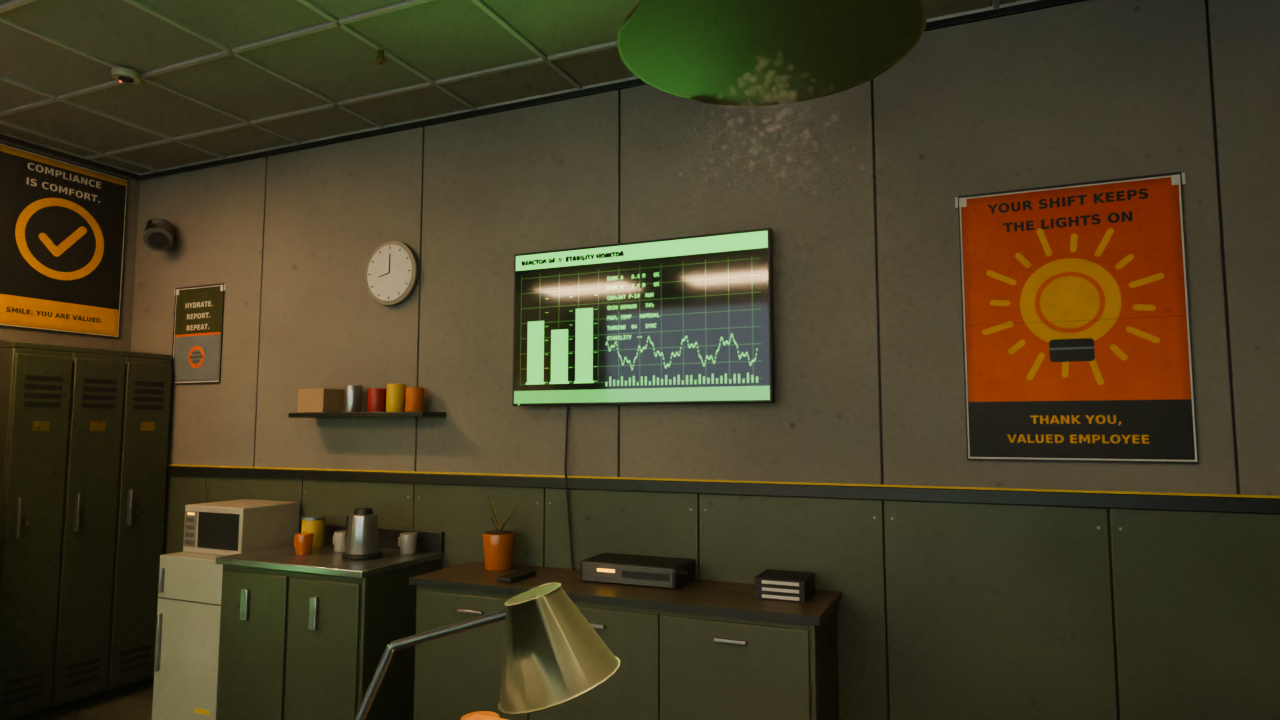
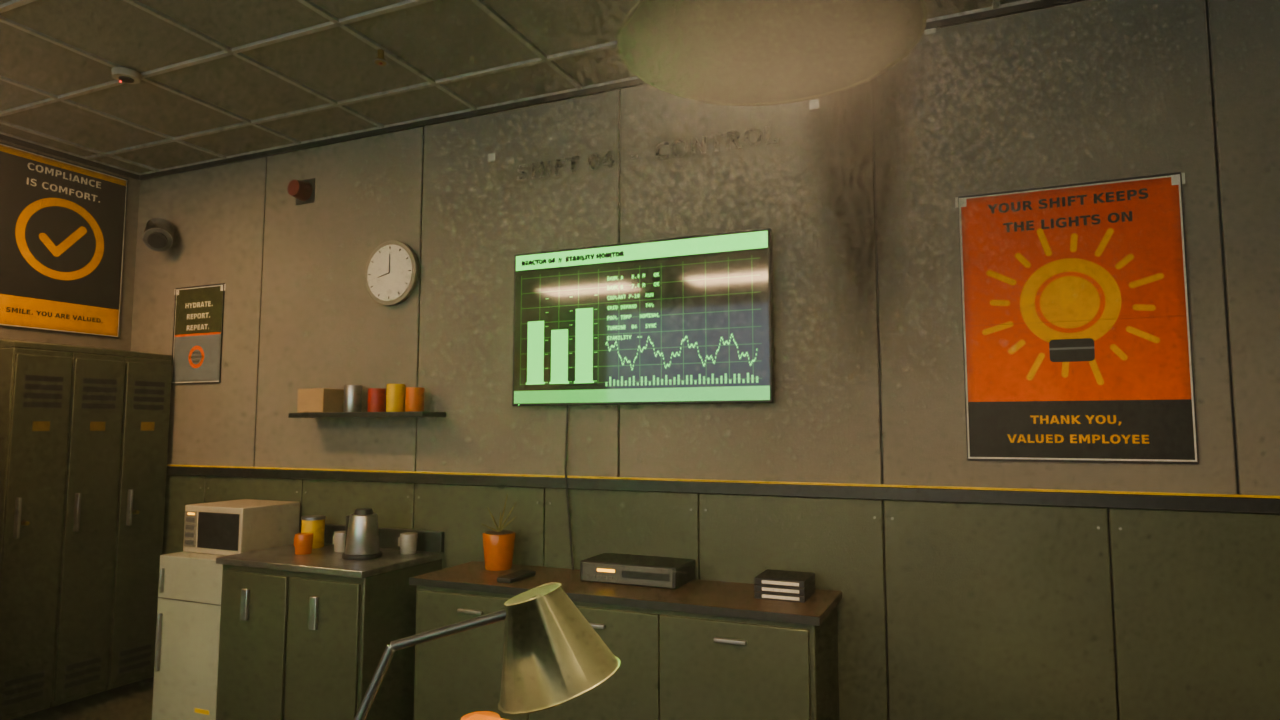
Reactor control room: final renders for the third pass
Six main views, TV cycle sheet, reactor-stability sweep, stencil, defaced poster, cot corner and keyboard close-up replace the previous set.

Claude-Session: https://claude.ai/code/session_01MZn6W3mktoSNAd4EhQyGwJ

diff --git a/sections/reactor-room/production/overhaul-R1/README.md b/sections/reactor-room/production/overhaul-R1/README.md
@@ -202,4 +202,4 @@ The first 1990s pass (uniform chamfers, purple plum palette, flat lighting, prim
 - *Statuses, kept separate (V00 labels):* technical authoring checks Passed (`cr_verify.py`, piping, clearance, sight lines); Blender round trip Passed (numbers above); visual QA of the renders done by the author only (no independent review); engine import, materials, colliders and Player behaviour **Blocked** (no asset-specific validator and no working Unity target; the stock foundation runner does not import the map); formal room acceptance **not run** (style slice, review cycles and cold start from the production protocol were not executed, so this is an authoring pass, not an accepted room).
 - *Not done:* no LODs or instancing (inventory only: 154k triangles, 87 materials, 73 images / 10.8 MPix in the delivery derivative, no ratified budget), no seamless tile bakes, no normal/AO bakes, no Unity run.
 
-Verified on the shipped file: `cr_verify.py` PASS (0 envelope violations, 0 intruding objects, all zones reachable, 0 chair/desk overlaps, 0 purple-band colours, 0 purple images); `verify_piping.py` 26 runs / 0 dangling / 0 unconnected ports; `clearance.py` 0 clashes; `verify_scene.py` sight lines identical to before the redo (bank A and B 75%, pool water 52-61%, hall floor 40-48%). The redo collection has about 154k triangles in 312 merged objects (about 168k before the keyboard trick) (budget deliberately deferred: hero props are several thousand triangles each). **Not done / not measured:** the engine export (`engine/reactor_room_R1.glb`) was not regenerated and drivers do not survive glTF (the TV, LEDs and screens would export as one static state); no engine measurement, no draw-call or texture-memory measurement; no instancing or LODs yet (candidates: the four chairs, the terminal kits, the shelf binders and boxes, the rack plates); the stability-driven lights, beacons, TV and LED flicker are Blender drivers that the engine has to re-implement from the same inputs (`stability`, frame); no independent review; `module.blend`, `MASTER_MANIFEST.json` and `MAP.json` are untouched; `reactorroom.md` still describes the older bright room. Renders are `sections/reactor-room/production/renders/overhaul-R1/control_room_redo_*.png`.
+Verified on the shipped file: `cr_verify.py` PASS (0 envelope violations, 0 intruding objects, all zones reachable, 0 chair/desk overlaps, 0 purple-band colours, 0 purple images); `verify_piping.py` 26 runs / 0 dangling / 0 unconnected ports; `clearance.py` 0 clashes; `verify_scene.py` sight lines identical to before the redo (bank A and B 75%, pool water 52-61%, hall floor 40-48%). The redo collection has about 154k triangles in 312 merged objects (about 168k before the keyboard trick) (budget deliberately deferred: hero props are several thousand triangles each). **Not done / not measured:** the engine export (`engine/reactor_room_R1.glb`) was not regenerated and drivers do not survive glTF (the TV, LEDs and screens would export as one static state); no engine measurement, no draw-call or texture-memory measurement; no instancing or LODs yet (candidates: the four chairs, the terminal kits, the shelf binders and boxes, the rack plates); the stability-driven lights, beacons, TV and LED flicker are Blender drivers that the engine has to re-implement from the same inputs (`stability`, frame); no independent review; `module.blend`, `MASTER_MANIFEST.json` and `MAP.json` are untouched; `reactorroom.md` still describes the older bright room. Renders are `sections/reactor-room/production/renders/overhaul-R1/control_room_redo_*.png` (six main views at 1280x720, a TV cycle sheet at frames 1/205/300/480, a reactor-stability sweep at 1.0/0.6/0.3/0.1, stencil, defaced poster, cot corner, keyboard close-up, delivery round trip); composed with `scripts/cr_contact.py`.
